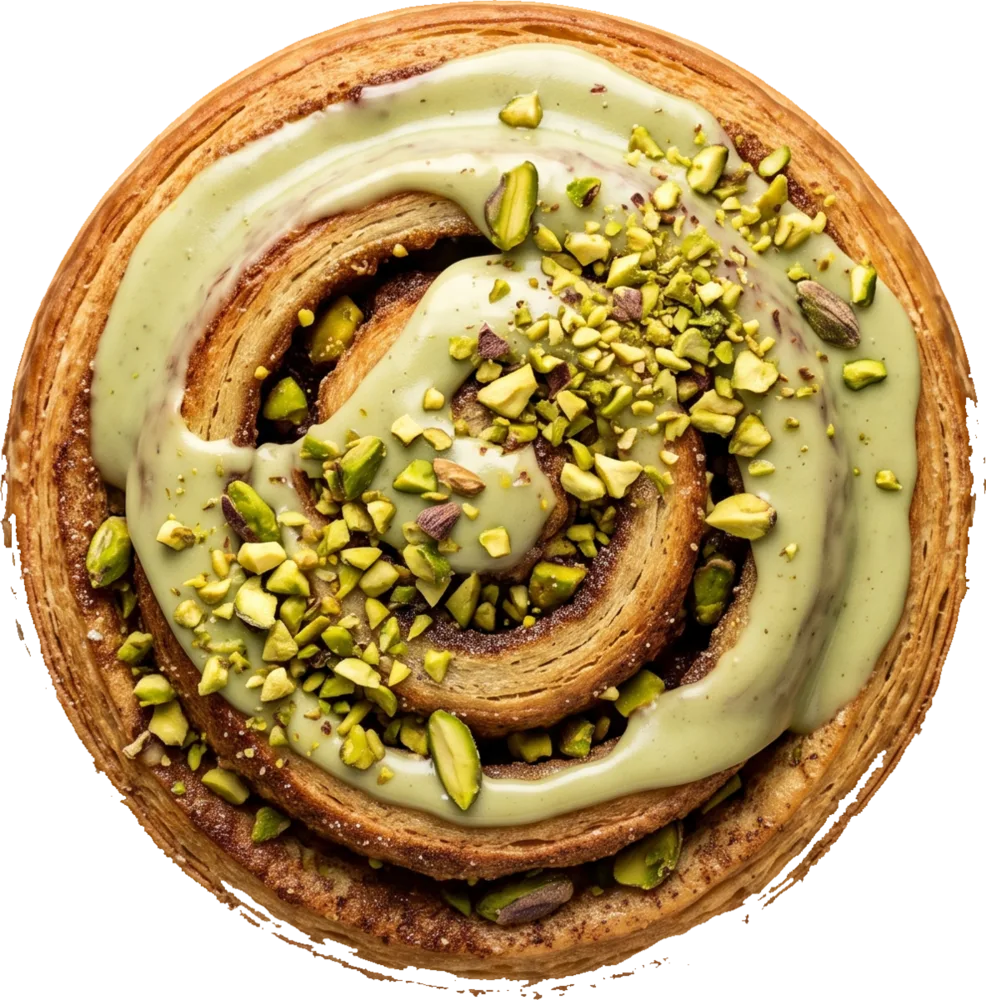
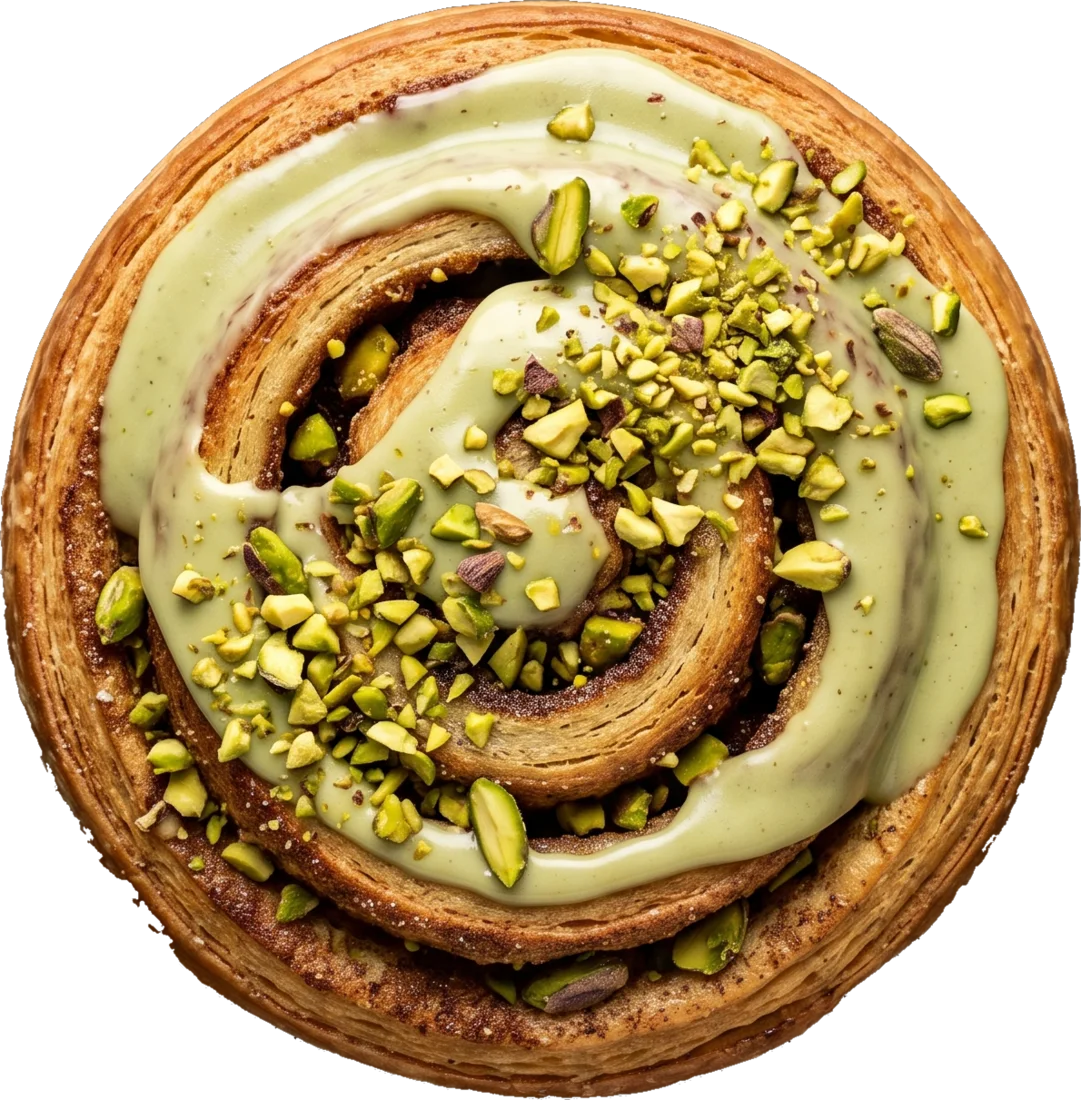
Reynir: careful pistachio trace + spring-smoothed travel
Cutout redone with a gentle low-fuzz (10%) corner floodfill and NO erosion, so
the flaky pastry edge is fully preserved (the previous fuzz 22% + erode ate the
edge). Tiny alpha blur only to anti-alias. Travel now runs through a spring
(useSpring on scrollY) so the medallion glides at 60fps instead of stepping
with throttled scroll events.

diff --git a/src/preview/reynir/Page.tsx b/src/preview/reynir/Page.tsx
@@ -17,7 +17,7 @@
  */
 
 import { useEffect, useLayoutEffect, useMemo, useRef, useState } from 'react'
-import { motion, useScroll, useTransform } from 'framer-motion'
+import { motion, useScroll, useSpring, useTransform } from 'framer-motion'
 import { PreviewChrome } from '../PreviewChrome'
 import { PreviewFooter } from '../PreviewFooter'
 import { getPreviewCompany } from '../companies'
@@ -276,7 +276,10 @@ export default function ReynirPage() {
   }, [enableTravel, lang])
 
   const { scrollY } = useScroll()
-  const travelTransform = useTransform(scrollY, (y) => {
+  // Spring-smooth the scroll value so the medallion glides at 60fps instead of
+  // stepping with throttled scroll events.
+  const smoothY = useSpring(scrollY, { stiffness: 130, damping: 30, mass: 0.5 })
+  const travelTransform = useTransform(smoothY, (y) => {
     const a = anchorRef.current
     if (!a) return 'translate3d(-9999px,-9999px,0)'
     const p = Math.min(Math.max(y / a.settleY, 0), 1)